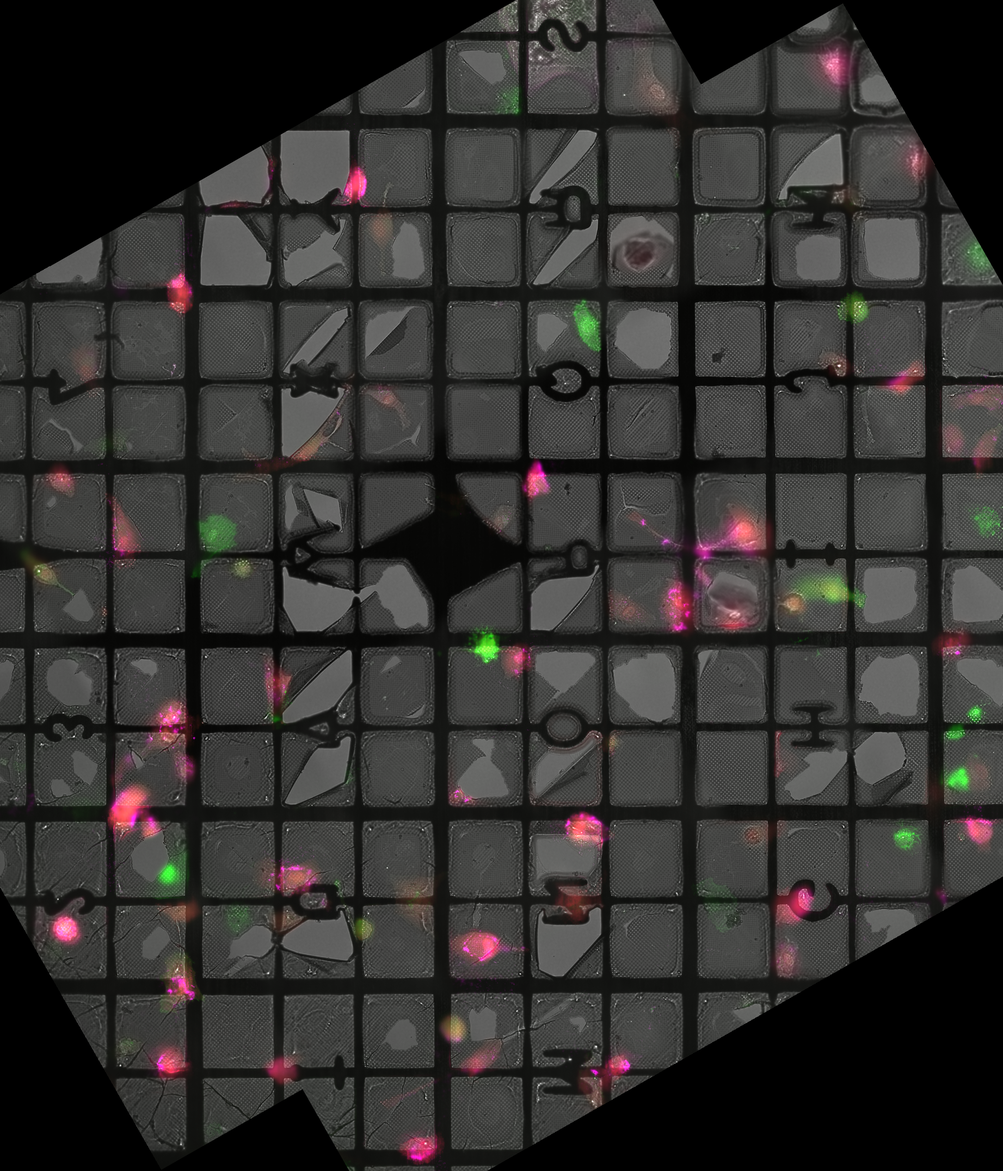
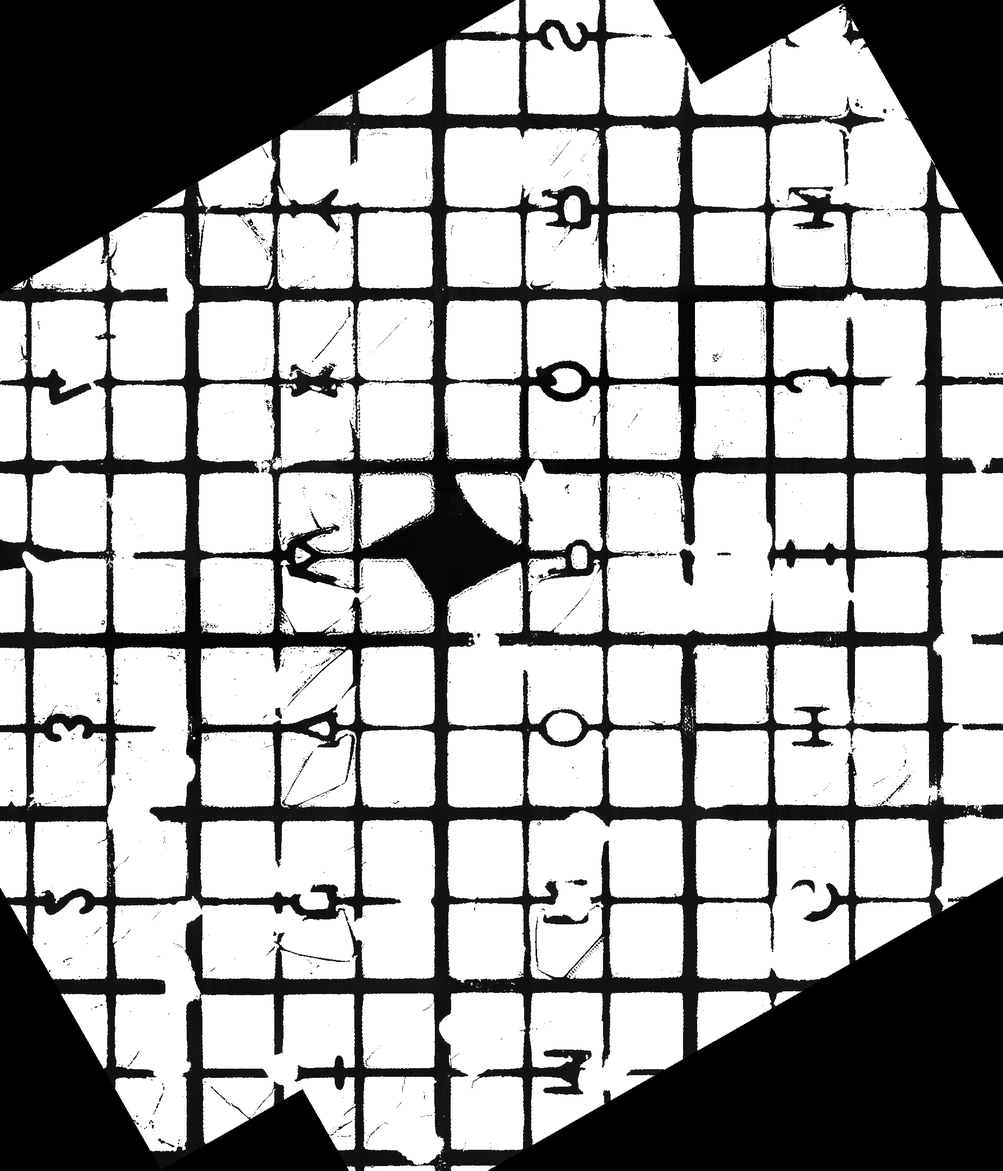
I don't know what I did before, but I did straighten the images, now I am working on something else

diff --git a/main.py b/main.py
@@ -5,11 +5,11 @@ from scipy.ndimage import rotate
 from PIL import Image
 def main():
     # visualize_detected_dots(,)
-    # flm_img = load_image("./images/grid_1/flm.tif", )
-    tem_img = load_image("./images/grid_1/tem.tif", )
+    flm_img = load_image("./images/grid_1/flm.tif", )
+    # tem_img = load_image("./images/grid_1/tem.tif", )
     # flm_img = center_crop(flm_img)
     lines, edges = detect_grid_lines(
-        tem_img, 
+        flm_img, 
         sigma=4,
         threshold=0.1,
         min_angle=50, 
@@ -28,12 +28,16 @@ def main():
     diff_90 = 'yes' if np.abs(diff - 90) > tol else 'no'
     # rotate the image
     angle = (90 - a2) # assuming a2 is in first quadrant
-    rot_img = rotate(tem_img, -angle, reshape=False) # need anticlockwise rot
+    rot_img = rotate(flm_img, -angle, reshape=False) # need anticlockwise rot
+
+    # make the image binary
+    rot_img = rot_img.mean(axis=2)
+    rot_img[rot_img.astype(int) > 30] = 255 # where it is not black make it white
+    rot_img = rot_img.astype(np.uint8)
     rot_img_pil = Image.fromarray(rot_img)
-    rot_img_pil.save('rot_tem.png')
-    breakpoint()
-    out = overlay_hough_lines(flm_img, lines)
-    imsave("flm_512.png", out.astype(np.uint8))
+    rot_img_pil.save('rot_flm.png')
+    # out = overlay_hough_lines(flm_img, lines)
+    # imsave("flm_512.png", out.astype(np.uint8))
     # visualize_detected_lines(flm_img, lines, "TEM")
     # visualize_edges_only("./images/grid_1/flm.tif", threshold_range=[0.1, 0.2, 0.3], sigma_range=[6, 7, 8])
 if __name__ == "__main__":
